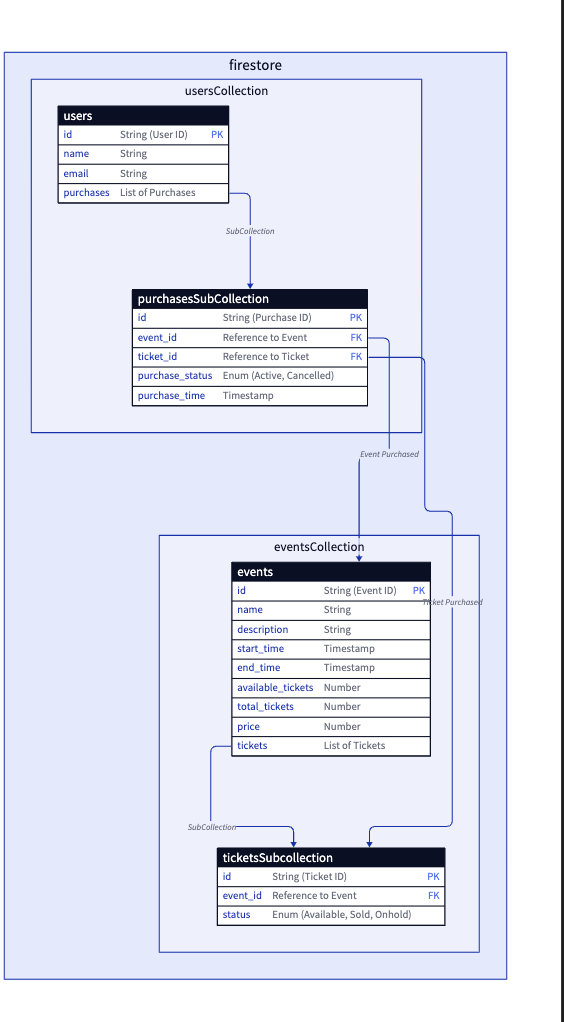
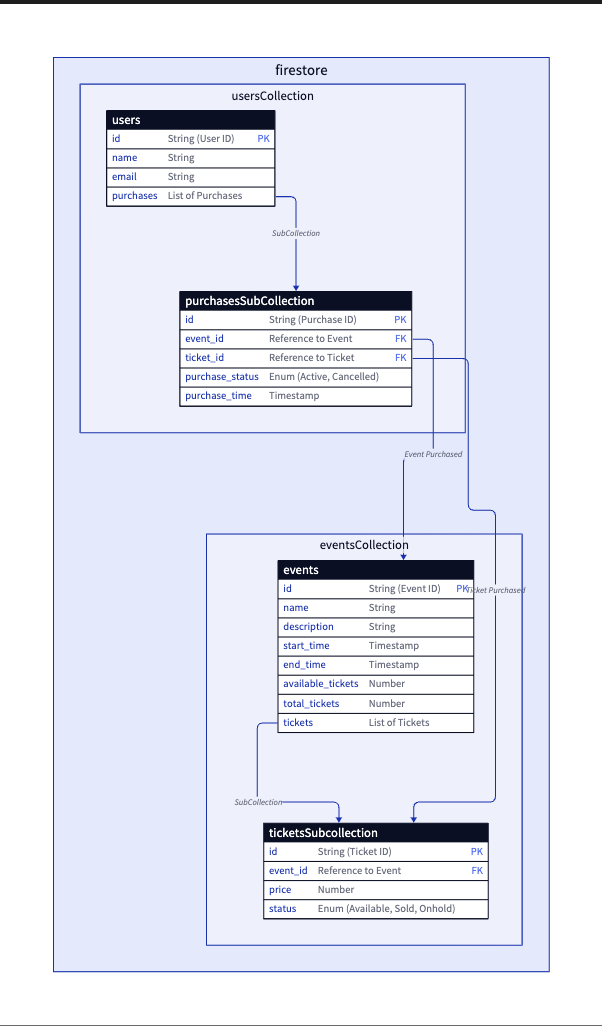
feat: added pub/sub queue and initial functions

Changed region(s): [[0.0, 0.0, 1.0, 1.0]]

diff --git a/functions/main.py b/functions/main.py
@@ -2,12 +2,92 @@
 # To get started, simply uncomment the below code or create your own.
 # Deploy with `firebase deploy`
 
-from firebase_functions import https_fn
-from firebase_admin import initialize_app
+import os
+import json
+from firebase_functions import https_fn, pubsub_fn
+from firebase_admin import initialize_app, firestore
+
+# from google.cloud import pubsub_v1
+from models import (
+    Event,
+    EventTicket,
+    User,
+    UserPurchase,
+    PurchaseEvent,
+    CreateEventPayload,
+)
+from pydantic import ValidationError
+import uuid
 
 initialize_app()
 
 
-@https_fn.on_request(region="europe-west4")
+EVENTS_COLLECTION_NAME = "events"
+TICKETS_COLLECTION_NAME = "tickets"
+
+
+# TODO: just a test function. Remove later
+@https_fn.on_request(region=os.environ["REGION"])
 def on_request_example(req: https_fn.Request) -> https_fn.Response:
     return https_fn.Response("Hello world!")
+
+
+@pubsub_fn.on_message_published(
+    topic=os.environ["PURCHASE_TOPIC_NAME"], region=os.environ["REGION"]
+)
+def process_purchase_events(
+    purchase_event: pubsub_fn.CloudEvent[pubsub_fn.MessagePublishedData],
+) -> None:
+    """Log a message using data published to a Pub/Sub topic."""
+    try:
+        purchase_event_json = purchase_event.data.message.json
+    except ValueError:
+        # TODO: handle error
+        print("PubSub message was not JSON")
+        return
+    if purchase_event_json is None:
+        return
+    try:
+        # Parse and validate the request data
+        purchase_event_data = PurchaseEvent(**purchase_event_json)
+    except ValidationError as e:
+        return https_fn.Response(f"Invalid event data: {str(e)}", status=400)
+
+
+@https_fn.on_request(region=os.environ["REGION"])
+def create_event(req: https_fn.Request) -> https_fn.Response:
+    try:
+        # Parse and validate the request data
+        event_data = CreateEventPayload(**req.get_json())
+    except ValidationError as e:
+        return https_fn.Response(e.json(), status=400, mimetype="application/json")
+
+    # Create a Firestore client
+    db = firestore.client()
+
+    # Create a new event document in Firestore
+    event_ref = db.collection(EVENTS_COLLECTION_NAME).document()
+
+    # Use batch writing to create tickets
+    tickets_collection = event_ref.collection(TICKETS_COLLECTION_NAME)
+    max_batch_size = 500
+
+    # Split into multiple batches if total_tickets exceed Firestore batch size limit (500)
+    for i in range(0, event_data.total_tickets, max_batch_size):
+        batch = db.batch()  # Create a new batch for each 500 tickets
+        for j in range(i, min(i + max_batch_size, event_data.total_tickets)):
+            ticket_id = str(uuid.uuid4())
+            ticket_ref = tickets_collection.document(ticket_id)
+            batch.set(
+                ticket_ref, {"status": "available", "price": event_data.tickets_price}
+            )
+        batch.commit()  # Commit the batch after each 500 tickets
+
+    # Set the event data in Firestore after all tickets are created
+    db.collection(EVENTS_COLLECTION_NAME).document(event_ref.id).set(
+        event_data.model_dump()
+    )
+
+    return https_fn.Response(
+        f"Event created successfully with ID: {event_ref.id}", status=201
+    )

diff --git a/functions/models.py b/functions/models.py
@@ -1,0 +1,63 @@
+from enum import Enum
+from pydantic import BaseModel
+from datetime import datetime
+from typing import List
+
+
+class Event(BaseModel):
+    id: str
+    name: str
+    description: str
+    start_time: datetime
+    end_time: datetime
+    available_tickets: int
+    total_tickets: int
+    event_tickets: List["EventTicket"] = []
+
+
+class EventTicketStatusEnum(str, Enum):
+    sold = "Sold"
+    available = "Available"
+    on_hold = "On Hold"
+
+
+class EventTicket(BaseModel):
+    id: str
+    event_id: str
+    status: EventTicketStatusEnum
+    price: float
+
+
+class User(BaseModel):
+    id: str
+    name: str
+    email: str
+    purchases: List["UserPurchase"] = []
+
+
+class PurchaseStatusEnum(str, Enum):
+    active = "Active"
+    cancelled = "Cancelled"
+
+
+class UserPurchase(BaseModel):
+    id: str
+    event_id: str
+    ticket_id: str
+    purchase_status: PurchaseStatusEnum
+    purchase_time: datetime
+
+
+class PurchaseEvent(BaseModel):
+    user_id: str
+    event_id: str
+    ticket_id: str
+
+
+class CreateEventPayload(BaseModel):
+    name: str
+    description: str
+    start_time: datetime
+    end_time: datetime
+    total_tickets: int
+    tickets_price: float
